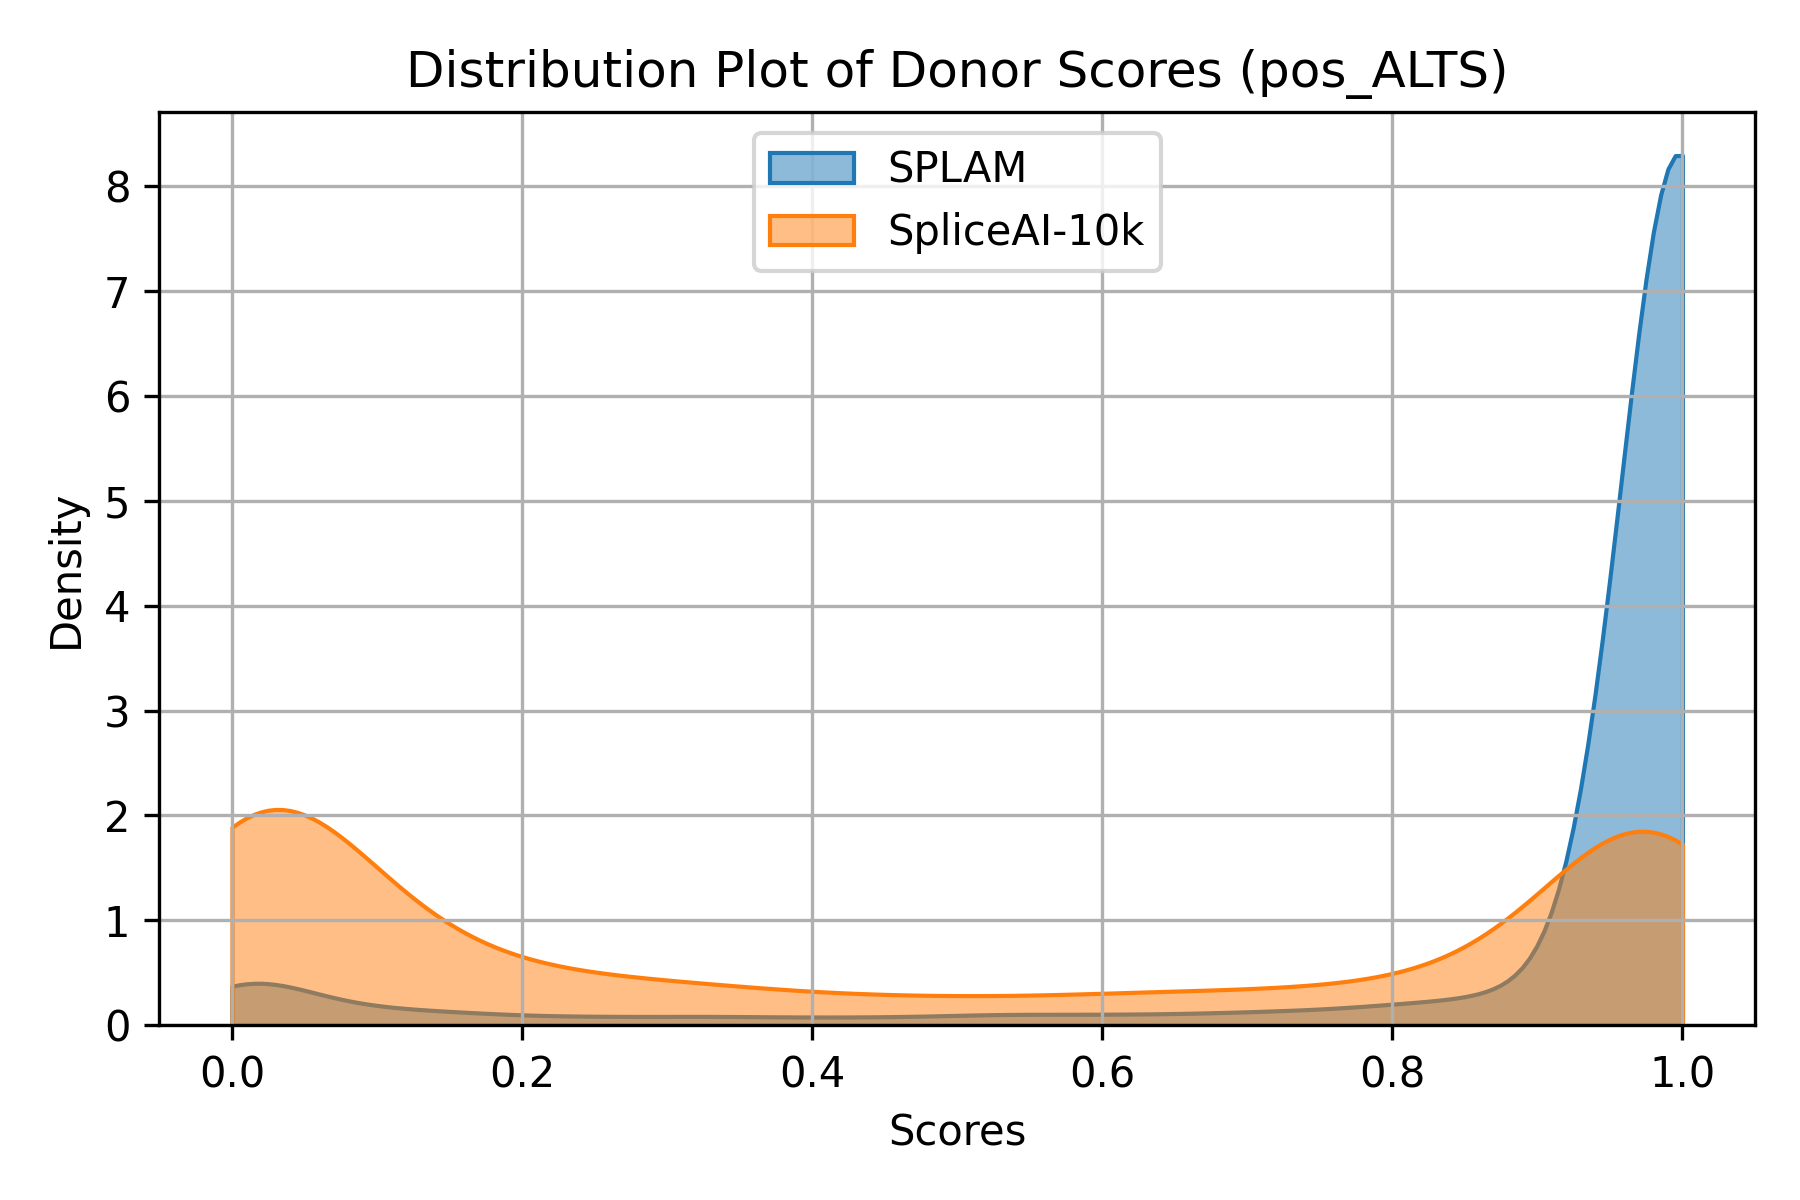
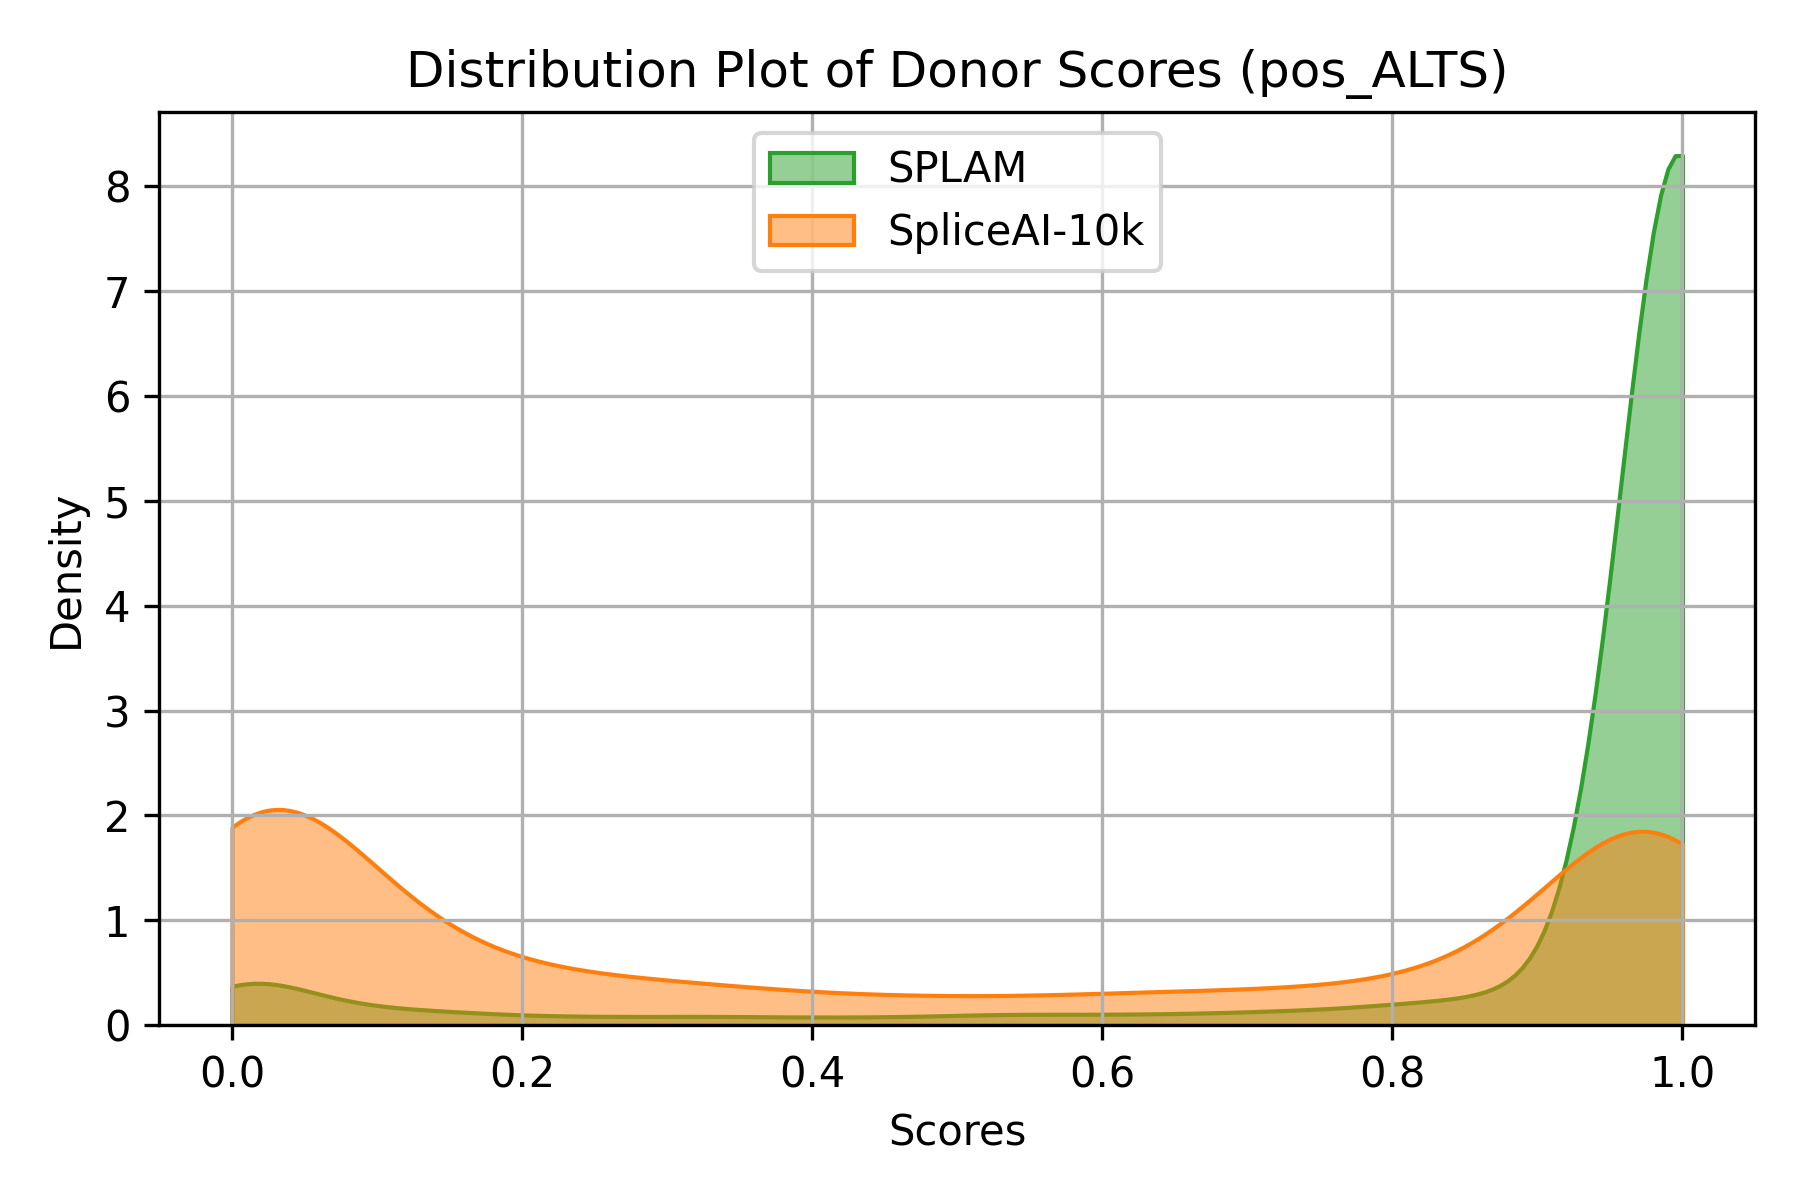
Update Figure 4

Changed region(s): [[0.1244, 0.1233, 0.9333, 0.8633], [0.4044, 0.1233, 0.4978, 0.1542]]

diff --git a/Figures/Figure_4/plot_pos_scores.py b/Figures/Figure_4/plot_pos_scores.py
@@ -39,6 +39,12 @@ def main():
                         a_score_tsv_f = "../../src_tools_evaluation/spliceai_result/"+output_file+"/spliceai_all_seq.score.a."+TYPE+"."+output_file+".tsv"
                         n_score_tsv_f = "../../src_tools_evaluation/spliceai_result/"+output_file+"/spliceai_all_seq.score.n."+TYPE+"."+output_file+".tsv"
 
+                    color_plt = ""
+                    if TOOL == "SPLAM":
+                        color_plt = "#2ca02c" 
+                    elif TOOL == "SpliceAI-10k" or TOOL == "SpliceAI-10k-Ns":
+                        color_plt = "#ff7f0e"
+
                     if TARGET == "Donor":
                         if TOOL == "SPLAM":
                             target_idx = 201
@@ -58,7 +64,7 @@ def main():
                         # sns.histplot(donors, kde=True, bins=50, color=COLORS[INDEX], alpha=0.7, stat="probability", label=TOOL)
                         # plt.hist(donors, density=True, histtype='stepfilled', alpha=0.8, label=TOOL)
                         
-                        sns.kdeplot(donors, shade=True, clip = (0.0, 1.0), alpha=0.5, label=TOOL)
+                        sns.kdeplot(donors, shade=True, clip = (0.0, 1.0), alpha=0.5, label=TOOL, color=color_plt)
 
                     elif TARGET == "Acceptor":
                         target_idx = 200
@@ -67,7 +73,6 @@ def main():
                             lines = fr.read().splitlines()
                             for line in lines:
                                 eles = line.split(" ")
-                                print("len(eles): ", len(eles))
                                 acceptors.append(float(eles[len(eles)-target_idx]))
                                 # acceptors.append(float(eles[target_idx-1]))
                                 # print(len(acceptors))
@@ -76,7 +81,7 @@ def main():
                         # Create a distribution plot with density plot
                         # sns.histplot(acceptors, kde=True, bins=50, color=COLORS[INDEX], alpha=0.7, stat="probability", label=TOOL)
                         # plt.hist(acceptors, density=True, histtype='stepfilled', alpha=0.8, label=TOOL)
-                        sns.kdeplot(acceptors, shade=True, clip = (0.0, 1.0), alpha=0.5, label=TOOL)
+                        sns.kdeplot(acceptors, shade=True, clip = (0.0, 1.0), alpha=0.5, label=TOOL, color=color_plt)
                     # HANDELS.append(plt_res)
                 plt.legend(loc="upper center")
                 plt.xlabel('Scores')

diff --git a/Figures/Figure_2/d_a_score_diff.py b/Figures/Figure_2/d_a_score_diff.py
@@ -118,7 +118,6 @@ def main():
                     sns.kdeplot(splam_score_diff, shade=True, clip = (-1.0, -0.15), alpha=0.25, label="SPLAM", color="#2ca02c")#, cut = -0.15)
                     sns.kdeplot(splam_score_diff, shade=True, clip = (0.15, 1.0), alpha=0.25, color="#2ca02c")#, cut = 0.15)
 
-
                 # if type == "nofilter":
                 #     sns.kdeplot(score_N_diff, shade=True, clip = (-1.0, 1.0), alpha=0.25, label="SpliceAI-10k-Ns", color="#4C72B0")
                 # elif type == "filter":
